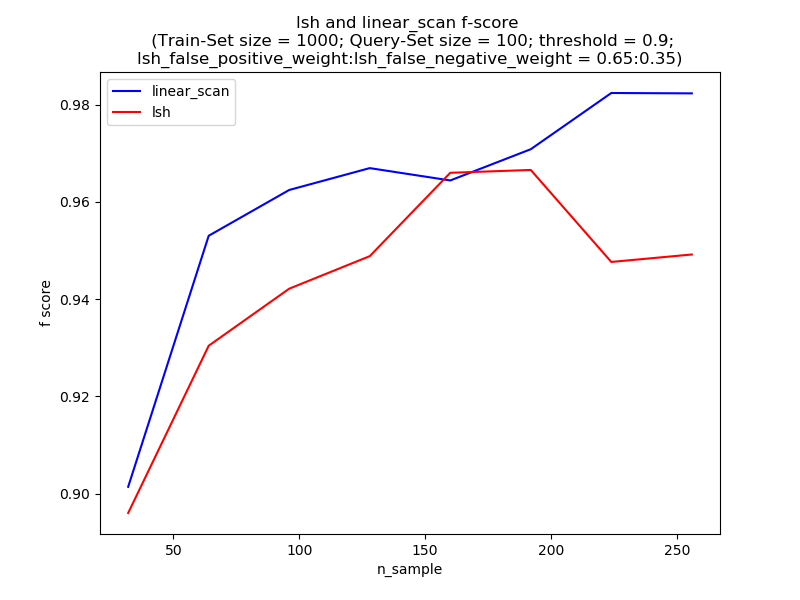
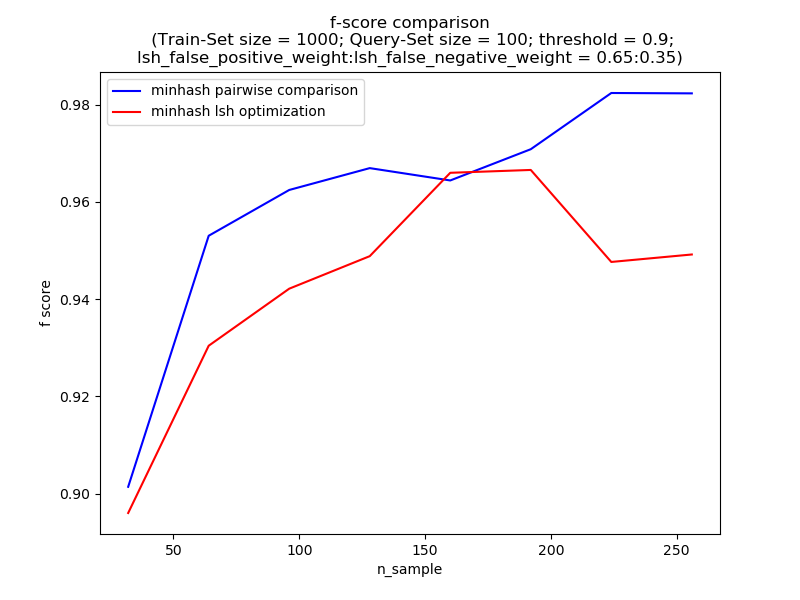
update

Changed region(s): [[0.1562, 0.03, 0.8438, 0.21], [0.8125, 0.9, 0.875, 0.93], [0.6875, 0.9, 0.7188, 0.93]]

diff --git a/src/benchmark/dna_benchmark.h b/src/benchmark/dna_benchmark.h
@@ -24,8 +24,8 @@ namespace LSH_CPP::Benchmark {
          * 但是这样得到的结果不能反映太多的相似性,因为 sim threshold 低于0.5,已经不具有参考性.
          * 故而,应该在 k <=7 的范围内进行测试, 然后对于更小的k,应该使用更大的 sim threshold 来抑制结果增长.
          */
-        constexpr size_t k = 6; // k取太小的话完全没有区分度,会导致所有的都相似,而且相似度阀值0.5可能太小
-        const double threshold = 0.8;
+        constexpr size_t k = 7; // k取太小的话完全没有区分度,会导致所有的都相似,而且相似度阀值0.5可能太小
+        const double threshold = 0.5;
 
         constexpr size_t n_sample = 512;
 
@@ -164,7 +164,7 @@ namespace LSH_CPP::Benchmark {
         }
     };
 
-#undef record_result
+#define record_result
 
     void minhash_linear_scan_query(const std::string &minhash_output_filename) {
         std::cout << "run minhash linear scan ...\n";
@@ -223,11 +223,9 @@ namespace LSH_CPP::Benchmark {
 #endif
     }
 
-    void weight_minhash_query() {
-
-    }
-
+#undef WEIGHT_MINHASH_TEST
 #undef SAMPLE_F1_SCORE_TEST
+
 #ifdef SAMPLE_F1_SCORE_TEST
     std::vector<HashSet < DNA_Shingling < CONFIG::k, LSH_CPP::no_weight>>>
     dna_shingling_sets;
@@ -364,8 +362,42 @@ namespace LSH_CPP::Benchmark {
     void dna_benchmark() {
         using namespace DNA_DATA;
         data = get_document_from_file(data_path);
-#ifdef SAMPLE_F1_SCORE_TEST
+#if defined(SAMPLE_F1_SCORE_TEST)
         Test<1000>();
+#elif defined(WEIGHT_MINHASH_TEST)
+        // 取第100条与后面100条比较结果
+        constexpr auto dim = pow(4, k);
+        using weight_vector_t = std::vector<uint32_t>;
+        using weight_minhash_t =  WeightMinHash<dim, uint32_t, n_sample>;
+        // for (const auto &doc:data) {
+        HashSet<DNA_Shingling<k, has_weight>> set_A;
+        weight_minhash_t hash_A;
+        double abs_mean_error = 0;
+        constexpr size_t count = 1500;
+        std::random_device d;
+        std::mt19937_64 random_gen(d());
+        std::uniform_int_distribution<size_t> dis(0, data.size() - count - 1);
+        auto start = dis(random_gen);
+        for (size_t i = start; i <= start + count; i++) {
+            auto set = split_dna_shingling<k, LSH_CPP::has_weight>(data[i]);
+            weight_vector_t vector(dim);
+            for (const auto &item:set) {
+                vector[item.value().to_ulong()] = item.weight();
+            }
+            if (i == start) {
+                hash_A.update(vector);
+                set_A = set;
+            } else {
+                weight_minhash_t temp;
+                temp.update(vector);
+                auto sim = weight_minhash_jaccard(hash_A, temp);
+                auto actual_sim = generalized_jaccard_similarity(set_A, set);
+                auto abs_error = std::fabs(sim - actual_sim);
+                std::cout << sim << " " << actual_sim << " " << abs_error << "\n";
+                abs_mean_error += abs_error;
+            }
+        }
+        std::cout << "mean abs error " << abs_mean_error / (double) (count) << "\n";
 #else
         for (size_t i = 0; i < data.size(); i++) labels.push_back(i);
         minhash_set.reserve(data.size());
@@ -380,17 +412,6 @@ namespace LSH_CPP::Benchmark {
         minhash_linear_scan_query(minhash_output_filename_prefix + binary_file_suffix);
         lsh_query(lsh_output_filename_prefix + binary_file_suffix);
 #endif
-        // 查看数据集中dna shingling weight分布
-//        HashMap<unsigned long, size_t> weights;
-//        for (const auto &doc:data) {
-//            auto set = split_dna_shingling<k, LSH_CPP::has_weight>(doc);
-//            for (const auto &item:set) {
-//                weights[item.value().to_ulong()] += item.weight();
-//            }
-//        }
-//        for (const auto &item:weights) {
-//            std::cout << item.first << " " << item.second << "\n";
-//        }
     }
 }
 #endif //LSH_CPP_DNA_BENCHMARK_H

diff --git a/src/benchmark/lsh_benchmark.h b/src/benchmark/lsh_benchmark.h
@@ -166,26 +166,26 @@ namespace LSH_CPP::Benchmark {
         });
         plt::figure_size(800, 600);
         plt::subplot(2, 1, 1);
-        plt::named_plot("linear_scan time", x, time_linear_scan_sets, "b-");
-        plt::named_plot("lsh time", x, time_lsh_sets, "r-");
-        plt::xlabel("n_sample");
-        plt::ylabel("time (ms)");
-        plt::title("lsh and linear_scan performance compare \n "
+        plt::title("performance comparison \n "
                    "(Train-Set size = 1000; Query-Set size = 100; threshold = 0.9;\n"
                    "lsh_false_positive_weight:lsh_false_negative_weight = 0.65:0.35)");
+        plt::named_plot("minhash pairwise comparison time", x, time_linear_scan_sets, "b-");
+        plt::named_plot("minhash lsh optimization time", x, time_lsh_sets, "r-");
+        plt::xlabel("n_sample");
+        plt::ylabel("time (ms)");
         plt::legend();
         plt::subplot(2, 1, 2);
-        plt::named_plot("lsh time", x, time_lsh_sets, "r-");
+        plt::named_plot("minhash lsh optimization time", x, time_lsh_sets, "r-");
         plt::xlabel("n_sample");
         plt::ylabel("time (ms)");
         plt::legend();
         plt::save("../src/benchmark/lsh_performance.png");
 
         plt::figure_size(800, 600);
-        plt::named_plot("linear_scan", x, linear_scan_mean_f_scores, "b-");
-        plt::named_plot("lsh", x, lsh_mean_f_scores, "r-");
-        plt::title("lsh and linear_scan f-score \n (Train-Set size = 1000; Query-Set size = 100; threshold = 0.9;\n"
+        plt::title("f-score comparison\n (Train-Set size = 1000; Query-Set size = 100; threshold = 0.9;\n"
                    "lsh_false_positive_weight:lsh_false_negative_weight = 0.65:0.35)");
+        plt::named_plot("minhash pairwise comparison", x, linear_scan_mean_f_scores, "b-");
+        plt::named_plot("minhash lsh optimization", x, lsh_mean_f_scores, "r-");
         plt::xlabel("n_sample");
         plt::ylabel("f score");
         plt::legend();

diff --git a/src/include/minhash.h b/src/include/minhash.h
@@ -199,8 +199,9 @@ namespace LSH_CPP {
         // 不过这里的函数不会对 MapArray 做任何修改,所以不用担心 MapArray 影响原数据的值.
         MapArray a_array(A.hash_values.data(), _n_permutation);
         MapArray b_array(B.hash_values.data(), _n_permutation);
-        int count = ((a_array - b_array) == 0).select(one_eigen_array<uint64_t, _n_permutation>,
-                                                      zero_eigen_array<uint64_t, _n_permutation>).sum();
+        int count = (a_array == b_array)
+                .select(one_eigen_array<uint64_t, _n_permutation>, zero_eigen_array<uint64_t, _n_permutation>)
+                .sum();
         return (double) count / (double) _n_permutation;
     }
 

diff --git a/src/include/util.h b/src/include/util.h
@@ -126,6 +126,11 @@ namespace LSH_CPP {
     static const Eigen::Array<_Scalar, row, 1> max_eigen_array =
             Eigen::Array<_Scalar, row, 1>::Constant(std::numeric_limits<_Scalar>::max());
 
+    // constexpr power function(only for integer power)
+    constexpr int32_t pow(int32_t x, uint32_t y) {
+        return y == 0 ? 1 : x * pow(x, y - 1);
+    }
+
     // 统计相关数据量需要的函数
     namespace Statistic {
         using precision_type = double;

diff --git a/src/include/lsh_cpp.h b/src/include/lsh_cpp.h
@@ -11,7 +11,7 @@
 #define EIGEN_USE_MKL
 #define EIGEN_USE_MKL_ALL
 #define EIGEN_NO_DEBUG
-#define MKL_NUM_THREADS 2
+#define MKL_NUM_THREADS CPU_THREAD_NUMBERS
 #define EIGEN_VECTORIZE_SSE4_2
 #define EIGEN_VECTORIZE_AVX2
 #define EIGEN_VECTORIZE_FMA

diff --git a/src/benchmark/benchmark.h b/src/benchmark/benchmark.h
@@ -12,8 +12,8 @@
 
 namespace LSH_CPP::Benchmark {
     void run_benchmark() {
-        dna_benchmark();
-        //lsh_benchmark();
+        //dna_benchmark();
+        lsh_benchmark();
         //weight_minhash_benchmark();
     }
 }
